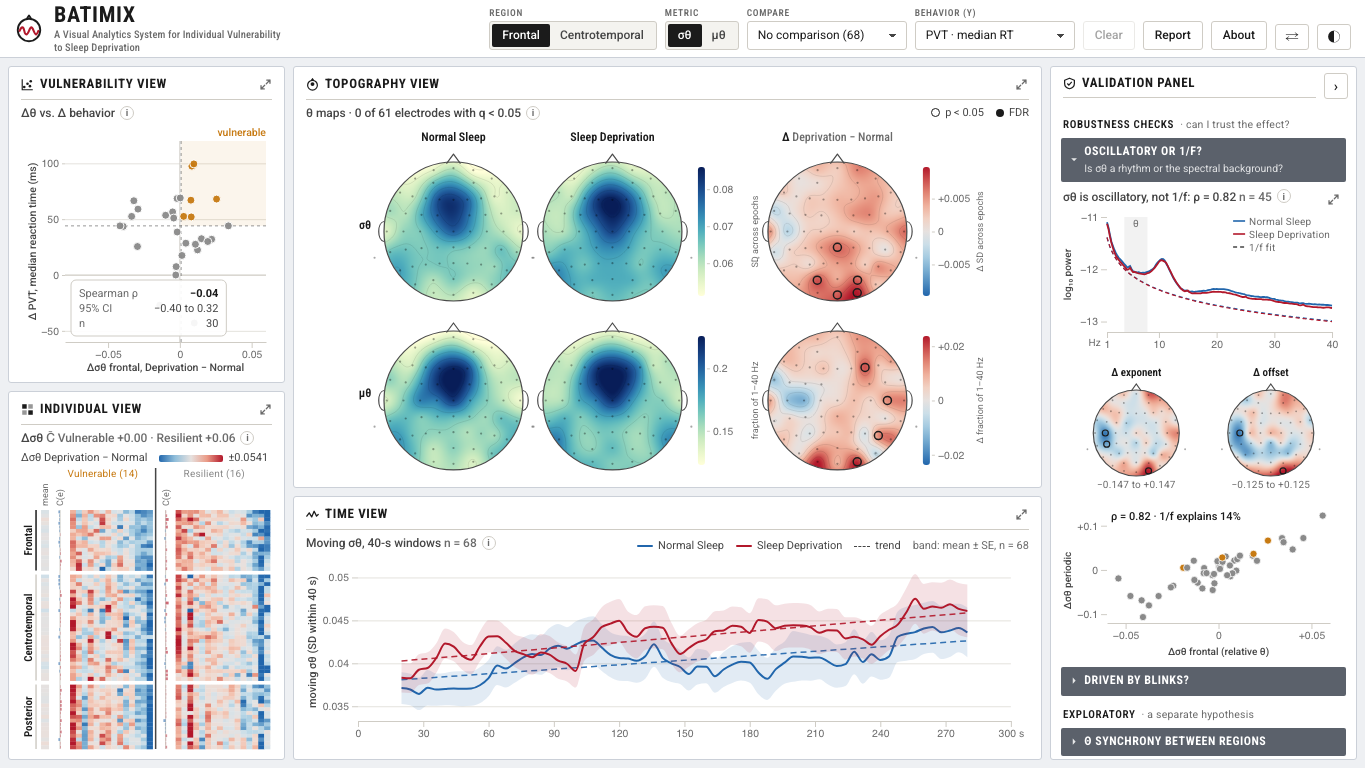
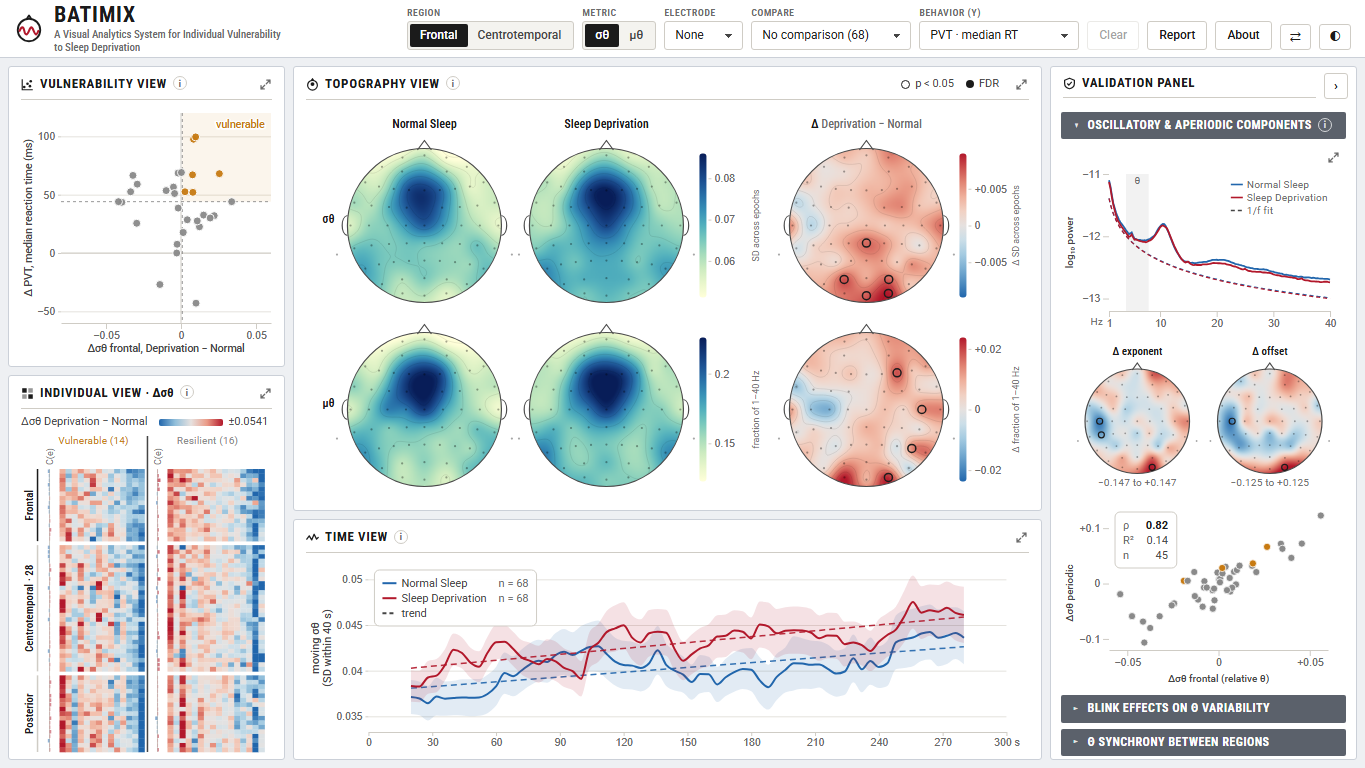
fix report

diff --git a/deliveries/week12/app/index.html b/deliveries/week12/app/index.html
@@ -107,7 +107,7 @@
       <li><b>Heterogeneous:</b> Δσθ frontal rises in 40 people and falls in 28; group t = 1.12, p = 0.27.</li>
       <li><b>Diffuse:</b> 0 of 61 electrodes survive FDR (σθ and μθ).</li>
       <li><b>Not linked to vigilance:</b> Δσθ frontal vs ΔPVT median RT ρ = −0.04 [−0.40, 0.32], n = 30; with Cui's exact pipeline, ρ = −0.06.</li>
-      <li><b>Oscillatory, not 1/f:</b> Δσθ tracks periodic theta (ρ = 0.82); the aperiodic offset change seen without ICA (p = 0.034) disappears with ICA.</li>
+      <li><b>Mostly oscillatory, not 1/f:</b> Δσθ tracks periodic theta (ρ = 0.82; 1/f variability explains R² = 0.14); the aperiodic offset change seen without ICA (p = 0.034) disappears with ICA.</li>
       <li><b>Not blinks:</b> removing blink windows leaves Δσθ unchanged (ρ = 0.95).</li>
     </ul>
     <h3>Data</h3>

diff --git a/deliveries/week12/RefinedDraftReport.md b/deliveries/week12/RefinedDraftReport.md
@@ -2,10 +2,10 @@
 
 **Refined Draft Report, Week 12** · DS5343 Data Visualization, UTEC 2026-2
 **Team:** Jimena Gurbillon, Andrea Coa, Paolo Medrano
-**Date:** 28 October 2026 (updated 2 November 2026)
+**Date:** 28 October 2026 (updated 3 November 2026)
 **Application:** `deliveries/week12/app/` · planned deployment at https://andrea-coa.github.io/data-visualization-project/deliveries/week12/app/ (verify after the push)
 
-![BATIMIX at 1600 × 900: scatter, person × electrode heatmap, five minutes, topomap matrix and secondary views](assets/dashboard-1600x900.png)
+![BATIMIX at 1600 × 900: Vulnerability View (scatter), Individual View (person × electrode heatmap), Topography View (topomap matrix), Time View and Validation Panel](assets/dashboard-1600x900.png)
 
 ## 1. Narrative
 
@@ -15,15 +15,15 @@
 
 **Data.** OpenNeuro ds004902 (Xiang et al., 2024, CC0): 71 people, normal sleep (NS) versus 24–30 h without sleep (SD), 61-channel eyes-open EEG. 68 have EEG in both conditions; of these, PVT 30, KSS 32, SSS 33 and PANAS 65.
 
-**Analytic sequence.** Each panel answers one question and its title is the answer, computed live from the data:
+**Analytic sequence.** Each view answers one question. The answers are computed live from the data; on screen they appear in the view's ⓘ note or in its legend box, and the exported Report keeps them as figure titles (with ρ, CI and n):
 
-| Question | Answer (real data) | Panel |
+| Question | Answer (real data) | View |
 |---|---|---|
-| Does everyone change the same way? | 40 people become more unstable and 28 more stable; the mean rises only +0.0030 (SD across people 0.022) | Scatter and heatmap |
-| Where does it change on the head? | σθ: 5 of 61 electrodes with uncorrected p < 0.05 (CPz, O2, Oz, PO3, PO4); μθ: 4; none after FDR: diffuse, no focus | Topomap matrix, Δ column |
-| When, within the five minutes? | Moving σθ in SD above NS in 60 of 66 windows (frontal) | Five minutes |
-| Is more unstable slower? | ρ = −0.04 [−0.40, 0.32], n = 30: does not replicate Cui et al. | Scatter |
-| Is the effect oscillatory or 1/f? | The change in σθ tracks the change in periodic theta (ρ = 0.82 frontal, 0.89 centrotemporal) | Secondary view «Oscillatory or 1/f?» |
+| Does everyone change the same way? | 40 people become more unstable and 28 more stable; the mean rises only +0.0030 (SD across people 0.022) | Vulnerability and Individual views |
+| Where does it change on the head? | σθ: 5 of 61 electrodes with uncorrected p < 0.05 (CPz, O2, Oz, PO3, PO4); μθ: 4; none after FDR: diffuse, no focus | Topography View, Δ column |
+| When, within the five minutes? | Moving σθ in SD above NS in 60 of 66 windows (frontal) | Time View |
+| Is more unstable slower? | ρ = −0.04 [−0.40, 0.32], n = 30: does not replicate Cui et al. | Vulnerability View (figure in the Report) |
+| Is the effect oscillatory or 1/f? | The change in σθ tracks the change in periodic theta (ρ = 0.82 frontal, 0.89 centrotemporal) | Validation Panel, «Oscillatory & aperiodic components» |
 | Does it depend on how it is analyzed? | Across 896 alternative analyses (two preprocessing pipelines), no joint statistic exceeds chance (p ≥ 0.09) | About, «Robustness» (section 4) |
 
 **Preliminary conclusion.** Without sleep, each person's theta moves in different directions, and that change does not robustly predict who deteriorates. The only consistent hint is with mood (positive affect, PANAS+), not with vigilance (PVT).
@@ -32,30 +32,30 @@
 
 | Before (Week 10) | Now (Week 12) | Why |
 |---|---|---|
-| Light dashboard of three separate cards, with a commented scrolling story | Single view with gapless panels that fill the screen (1365 × 768 without scrolling); light theme by default, dark as an option | Instructor feedback (no white space) and team decision (one view, no scrollytelling) |
+| Light dashboard of three separate cards, with a commented scrolling story | Single view of boxed views with narrow gutters that fill the screen (1365 × 768 without scrolling); light theme by default, dark as an option | Instructor feedback (no white space) and team decision (one view, no scrollytelling) |
 | Controls spread over several bars and inside each card | One header with the title and all controls | Visual noise from controls |
-| Help text ("drag to…", "hover…") and role labels | No instruction text: each panel title is its finding; intro, glossary and method in About | Visual noise; team request |
+| Help text ("drag to…", "hover…") and role labels | No instruction text or subtitles over the charts: each view has a short name with an ⓘ icon next to it (reading, method and figures), and legends sit in boxes inside the charts that can be dragged or collapsed to an icon; intro, glossary and method in About | Visual noise and more room for the charts; team request |
 | Transition animations and a Play button | No animations: every state change is immediate | No motion graphics |
 | Inverse-distance (IDW) maps on hand-approximated 2D coordinates | Biharmonic v4 interpolation, as in EEGLAB `topoplot` and FieldTrip `ft_topoplotER`, on the real positions in `electrodes.tsv` in azimuthal equidistant projection; since 2 November it is the only method in the app (the selector that also showed MNE's Clough-Tocher cubic and the spherical spline, Perrin et al., 1989, was removed). All three implementations reproduce the originals (EEGLAB and FieldTrip in MATLAB R2022a, MNE 1.8) with an error below 1e-9 of the range. With all 68 people, the v4 map correlates r ≥ 0.985 with MNE's cubic and r ≥ 0.93 with the spherical spline in all six maps | IDW is not a standard for EEG topomaps; use the community's reference method and show that the pattern does not depend on it |
-| No indication of pipeline or units; electrode tooltip with p and q | Fixed chip in the header (now θ 4–8 / 1–40 Hz · avg. ref. · ICA · 75 × 4 s, linked to the method); units on the color bars; the five-minute band labeled «mean ± SE»; tooltip with t(67), d_z and 95% CI of Δ. The Δ map of the 68 is now paired and p uses the exact t distribution (formerly a normal approximation); same conclusions | The first questions of a neurophysiologist: which pipeline, which units, what effect size |
+| No indication of pipeline or units; electrode tooltip with p and q | Fixed chip in the header (now θ 4–8 / 1–40 Hz · avg. ref. · ICA · 75 × 4 s, linked to the method); units on the color bars; the Time View legend gives each series' n and its ⓘ note explains the band (± SE); tooltip with t(67), d_z and 95% CI of Δ. The Δ map of the 68 is now paired and p uses the exact t distribution (formerly a normal approximation); same conclusions | The first questions of a neurophysiologist: which pipeline, which units, what effect size |
 | Five minutes always showed the mean (μθ), even with σθ selected | Follows the σθ/μθ button: with σθ it shows moving σθ (SD of regional θ in 40-s windows sliding by one epoch). Exploratory and labeled: its scale is smaller than the scatter σθ because it starts from the region-averaged series | Q6 for the central metric: the state-instability hypothesis (Doran, Van Dongen and Dinges, 2001) predicts more moment-to-moment variability without sleep; Cui et al. (2026) summarize it as a single number without temporal order; 40 s is where resting spectral power reaches its reliability (Gudmundsson et al., 2007) |
-| Two columns with maps and views of the same size; no secondary views | Three columns with the topomap as the main view and a column of collapsible secondary views: «Oscillatory or 1/f?» (specparam) and «θ synchrony between regions» (wPLI graph and effect per pair), computed from the raw EEG with `tools/build_secondary.py` and linked to the selection | Visual hierarchy (instructor critique) and the first objection a neurophysiologist would raise: is it oscillation or 1/f background? |
+| Two columns with maps and views of the same size; no secondary views | Three columns with the topomap as the main view and a collapsible Validation Panel: «Oscillatory & aperiodic components» (specparam: spectrum with a click-to-zoom θ band, Δ exponent and offset maps, Δσθ against periodic Δσθ with ρ, R² and n) and «θ synchrony between regions» (wPLI graph and effect per pair), computed from the raw EEG with `tools/build_secondary.py` and linked to the selection | Visual hierarchy (instructor critique) and the first objection a neurophysiologist would raise: is it oscillation or 1/f background? |
 | No automatic verification of the numbers | `tools/check_app.py`: 16 tests (FDR and ρ against statsmodels and scipy, t and d_z against scipy, reference signals with MNE, consistency of n across titles, About, Report and tooltip, secondary views, screenshots) and `tools/check_reproduction.py` (the processed data reproduce from the raw EEG) | A miscalculated number invalidates the tool for an expert |
 | One topomap with σ/μ and NS/SD/Δ toggles | 2 × 3 topomap matrix: NS, SD and Δ columns; σθ and μθ rows, or one row per person when exactly two people are selected | Compare conditions, metrics and people without toggling (T1, T2, T4) |
-| Selection with the lasso only; fixed ρ for the 68 | Lasso, click selection from 1 to n people, and **Compare two groups** (women vs men, session order, PSQI, vulnerable vs rest), with one color per group in every view and ρ per group | Task T7: moderators side by side, not filtered one at a time |
-| Views that only displayed | All linked: clicking an electrode or a time window redefines the scatter x-axis; clicking points or heatmap columns builds the selection; two selected people are compared side by side | "Everything interactive": each view is also a control |
+| Selection with the lasso only; fixed ρ for the 68 | Lasso, click selection from 1 to n people, and **Compare two groups** (women vs men, session order, PSQI, vulnerable vs rest), with one color per group in every view (ρ per group in the Report). Selection and comparison combine: the points keep their group colors and the Topography and Time views follow the selection | Task T7: moderators side by side, not filtered one at a time |
+| Views that only displayed | All linked: an electrode (from the **Electrode** selector in the header, a map or a heatmap row) or a time window redefines the scatter x-axis; clicking points or heatmap columns builds the selection; two selected people are compared side by side | "Everything interactive": each view is also a control |
 | No per-person view | Fixed person × electrode heatmap: two groups defined by behavior only (deteriorate vs resist, or the Compare groups) and their consistency C(e); selected people are outlined without reordering | Tasks T3 and T4 without averages: do those who deteriorate share a signature? |
 | No way to take the view away | **Report** button: self-contained HTML with the current view, how to read each chart, the people table and its CSV | Let the researcher document and share what they found |
-| Long titles | Short headline computed from the data plus figures in a muted tone | Each panel conveys its message in a few words |
+| Long titles | Short view names (the Individual View adds the metric, e.g. «Δσθ»); no headlines over the charts: figures go in the ⓘ notes, the legend boxes and the Report | Each view conveys its message in a few words and the charts get the space |
 | Markers: median PVT, KSS, SSS, PANAS | Also PVT lapses and RT SD | Basner and Dinges (2011) |
 | No response to the non-replication | Multiverse (448 analyses, now 896 with the preprocessing pipeline as a dimension) with permutation inference. It had its own panel in the 28 October delivery; later, to reduce the number of charts, it moved to About and the Report as a robustness analysis | Methodological contribution (section 4) |
-| No per-person data quality; no artifact check | Tooltip with each person's EEG quality (epochs used, interpolated channels, blinks per minute) and a secondary «Driven by blinks?» view (`tools/build_quality.py`) | Without EOG or ICA, the first suspicion about frontal theta is blinks |
+| No per-person data quality; no artifact check | Tooltip with each person's EEG quality (epochs used, interpolated channels, blinks per minute) and a secondary «Blink effects on θ variability» view (`tools/build_quality.py`) | There is no EOG channel and ICA removes ocular components by rule, so the first suspicion about frontal theta is residual blinks |
 | Preprocessing without ICA, FCz reference (the first question of a reviewer; every recent multi-channel sleep-deprivation study uses ICA) | Main pipeline with average reference and ICA (`tools/eeg_ica.py`); all app data regenerated; the Week 6 pipeline kept as a multiverse dimension; Cui-style rerun (`tools/build_cui_variant.py`) | Snipes et al. (2022), Lian et al. (2023), Ma et al. (2023), Liu, Xie and Ma (2024), Cui et al. (2026); see References |
 | Spanish interface | English interface | The tool and its figures will be part of an English paper |
 
 ## 3. Design rationale
 
-**Layout.** Three columns, following the team's sketch and the most common pattern in IEEE VIS systems (Chen et al.: large views in the center, narrow side panels). Since 2 November each view is a box with a short uppercase name and an icon (Vulnerability, Individual, Topography and Time views; Validation Panel), the finding moves to a discreet subtitle, controls carry a label above them, the header has the system name, a one-line description and a dataset summary, and conditions are written out as Normal Sleep and Sleep Deprivation, following VISTA and Unlearning Comparator. Center: the topomap matrix, the main view, with the five-minute series below, wide enough for its 75 epochs. Left: the people, with a compact scatter and a tall heatmap. Right: secondary views in an accordion (one open at a time) that collapse to a strip to give the maps more room. The ⇄ button swaps the sides; the center does not move. On narrow screens the panels stack, maps first.
+**Layout.** Three columns, following the team's sketch and the most common pattern in IEEE VIS systems (Chen et al.: large views in the center, narrow side panels). Since 2 November each view is a box with a short uppercase name and an icon (Vulnerability, Individual, Topography and Time views; Validation Panel), with an ⓘ icon next to the name for the reading and the figures and no subtitle over the chart; controls carry a label above them (Region, Metric, Electrode, Compare, Behavior), the header has the system name, a one-line description and a dataset summary, and conditions are written out as Normal Sleep and Sleep Deprivation, following VISTA and Unlearning Comparator. Center: the topomap matrix, the main view, with the five-minute series below, wide enough for its 75 epochs. Left: the people, with a compact scatter and a tall heatmap. Right: secondary views in an accordion (one open at a time) that collapse to a strip to give the maps more room. The ⇄ button swaps the sides; the center does not move. On narrow screens the panels stack, maps first.
 
 **Tasks and views** (typology of Brehmer and Munzner, 2013):
 
@@ -63,18 +63,18 @@
 |---|---|---|---|
 | T1 Locate | Where does theta change? (Q1) | Matrix, Δ column | Interpolated map (EEGLAB/FieldTrip v4) with ring (p < 0.05) and fill (FDR) |
 | T2 Compare metrics | Variability or mean? (Q2) | Matrix, σθ and μθ rows | Both metrics in view, one above the other |
-| T3 Identify | Who is vulnerable? (Q3) | Scatter; heatmap | Amber quadrant (above both medians), lasso and click selection; one column per person |
+| T3 Identify | Who is vulnerable? (Q3) | Scatter; heatmap | Amber quadrant labeled «vulnerable» (above both medians), lasso and click selection; one column per person |
 | T4 Compare | Do they share a spatial signature? (Q4) | Matrix by group; two selected people; heatmap | Mean of the active group; two people with shared scales; C(e) per group |
-| T5 Correlate | Does it converge with each marker? (Q5) | Scatter, Y-axis | Spearman ρ with 95% CI and n in the title, recomputed per group |
-| T6 Describe trend | Does it change within the recording? (Q6) | Five minutes | With μθ, mean ± SE per epoch; with σθ, moving σθ in 40-s windows |
-| T7 Compare groups | Do sex, PSQI or session order matter? (Q7) | Compare selector | Two groups with two colors in every view: map rows, ρ per group, Δ per epoch |
+| T5 Correlate | Does it converge with each marker? (Q5) | Scatter, Y-axis | The point cloud against the marker medians; Spearman ρ with 95% CI and n, recomputed for the selection or per group, in the Report figure |
+| T6 Describe trend | Does it change within the recording? (Q6) | Time View | With μθ, mean ± SE per epoch; with σθ, moving σθ in 40-s windows; n per series in the legend |
+| T7 Compare groups | Do sex, PSQI or session order matter? (Q7) | Compare selector | Two groups with two colors in every view: map rows, heatmap blocks, Δ per epoch with each group's n; ρ per group in the Report |
 | T8 Check robustness | Does it depend on analytic decisions? Is it oscillatory? | About, «Robustness»; secondary views | Joint multiverse statistics with their permutation p; periodic vs aperiodic separation; θ synchrony with effects and CIs per pair |
 
-**Encoding and color.** Light theme by default with ColorBrewer palettes; an optional dark "instrument" theme. When the two map rows share a scale (two people or two groups), each color column has a single long bar instead of one per row. NS = blue, SD = red. NS and SD share a sequential scale per row so that comparing columns means comparing values; with two people both rows share the scale. Δ uses a diverging scale with a neutral zero. Amber marks the vulnerable quadrant. Selection is marked with a ring (scatter) or an outline (heatmap) without changing the point colors, which keep their meaning. Direct labels instead of distant legends.
+**Encoding and color.** Light theme by default with ColorBrewer palettes; an optional dark "instrument" theme. When the two map rows share a scale (two people or two groups), each color column has a single long bar instead of one per row. NS = blue, SD = red. NS and SD share a sequential scale per row so that comparing columns means comparing values; with two people both rows share the scale. Δ uses a diverging scale with a neutral zero. Amber marks the vulnerable quadrant. Selection is marked with a ring (scatter) or an outline (heatmap) without changing the point colors, which keep their meaning. Direct labels («vulnerable» inside its quadrant, row and column names) and legends inside the charts, in boxes placed in the least crowded corner, instead of distant legends.
 
-**Typography.** Geist for titles and text, Geist Mono for figures and axes. At least 9–10 px in charts.
+**Typography.** Roboto for text and figures (tabular digits) and Roboto Condensed for view names, column headers and control labels. At least 9–10 px in charts; only dense heatmap labels go smaller (minimum 7 px).
 
-**Interaction.** Lasso, click to add or remove people (1 to n), Shift + click for people A and B, Esc and Clear, group selector, global region and metric; the ⤢ button of each view opens it almost full screen (Esc restores it); choosing an electrode (a map or a heatmap row) also switches the time view from the region to that electrode's own series, with its larger scale, so a local effect can be checked over the five minutes. Immediate response, no decorative animation, visible focus states.
+**Interaction.** Lasso, click to add or remove people (1 to n), Shift + click for people A and B, Esc and Clear, group selector (combinable with a selection), global region, metric and electrode; the ⤢ button of each view opens it almost full screen (Esc restores it); the ⇄ button swaps the side columns; legend boxes can be dragged (or moved with the arrow keys) and collapsed to an icon with a click; a click on the θ band of the spectrum zooms it to 4–8 Hz and another restores 1–40 Hz. Choosing an electrode (Electrode selector, a map or a heatmap row) also switches the Time View from the region to that electrode's own series, with its larger scale, so a local effect can be checked over the five minutes. Immediate response, no decorative animation, visible focus states.
 
 **Accessibility.** AA contrast, visible focus, group selector as an alternative to the lasso, data table in About.
 
@@ -100,8 +100,8 @@ Of the 58 significant analyses, 48 are PANAS+ (22 with ICA, 26 without): the lar
 3. The theta elevation in SD is mild and sustained across the five minutes.
 4. Theta instability does not predict PVT slowing (ρ = −0.04, n = 30), nor lapses (ρ = 0.07).
 5. The result does not depend on an analytic decision: across the whole multiverse no joint statistic exceeds chance.
-6. Person by person there is no vulnerability signature either (figures from the Week 6 pipeline): with the PVT, those who deteriorate and those who resist have mean consistency C = −0.02 and +0.10, and in a similarity graph (analyzed in the delivery, now off the board) 19 of 42 neighbors of those who deteriorate belong to their group (chance ≈ 19). The exception is again mood: those who lose positive affect increase theta more (C = +0.28 versus −0.01 in σθ; +0.35 versus −0.07 in μθ), although their patterns are not more similar to each other.
-7. **σθ is oscillatory, not an effect of the 1/f background.** Each person's change in σθ tracks the change in their periodic theta (ρ = 0.82 frontal, 0.89 centrotemporal). Without ICA, deprivation seemed to raise the aperiodic offset (d_z = +0.26, p = 0.034; as Bai et al., 2024, report on this dataset); after ICA it does not (offset d_z = +0.01, p = 0.97; exponent d_z = +0.04, p = 0.73), which suggests that part of that change was ocular or muscle artifact. 53% of electrodes show a theta peak, as Monchy et al. ask to verify before interpreting theta.
+6. Person by person there is no vulnerability signature either (figures from the Week 6 pipeline): with the PVT, those who deteriorate and those who resist have mean consistency C = −0.02 and +0.10 (+0.00 and +0.06 with the main pipeline, as the heatmap shows now), and in a similarity graph (analyzed in the delivery, now off the board) 19 of 42 neighbors of those who deteriorate belong to their group (chance ≈ 19). The exception is again mood: those who lose positive affect increase theta more (C = +0.28 versus −0.01 in σθ; +0.35 versus −0.07 in μθ), although their patterns are not more similar to each other.
+7. **σθ is mostly oscillatory, not an effect of the 1/f background.** Each person's change in σθ tracks the change in their periodic theta (ρ = 0.82 frontal, n = 45; 0.89 centrotemporal, n = 51: people with at least 50 well-fitted epochs per session). The change in the epoch-to-epoch variability of the aperiodic exponent explains only R² = 0.14 (frontal) and 0.22 (centrotemporal) of the variance of Δσθ. Without ICA, deprivation seemed to raise the aperiodic offset (d_z = +0.26, p = 0.034; as Bai et al., 2024, report on this dataset); after ICA it does not (offset d_z = +0.01, p = 0.97; exponent d_z = +0.04, p = 0.73), which suggests that part of that change was ocular or muscle artifact. 46% of electrodes show a theta peak (normal sleep), as Monchy et al. ask to verify before interpreting theta.
 8. **Blinks do not drive σθ.** ICA removes the ocular components; this check asks whether what is left still matters. Blinks detected on Fp1/Fp2 of the raw EEG do not change with deprivation (median 19.6 → 19.9 per minute, p = 0.60). Removing the 1-s windows within 0.25 s of a blink leaves each person's Δσθ almost unchanged (ρ = 0.95 frontal, 0.96 centrotemporal, n = 48), and within recordings epochs with more blinks do not have more theta (r = −0.05). People whose blink rate rose more do show a larger Δσθ (ρ = 0.34, p = 0.005); since removing the blinks does not change Δσθ, this is more likely a shared cause (drowsiness raises both) than contamination.
 9. **Theta synchrony between regions (exploratory).** With average reference and wPLI², it decreases in 44 of 45 region pairs after deprivation, but no pair survives FDR (sign-flip permutation joint test p = 0.14) and it is unrelated to the PVT.
 10. **Average reference and ICA (main pipeline since November 2026) do not change the conclusions.** ICA removes 5.1 components per recording (2.5 ocular, 2.6 muscle) and 71 of 75 epochs are kept. The frontal group increase in σθ is t = 1.12 (p = 0.27; Week 6 pipeline 1.54, p = 0.13), each person's Δσθ agrees with the Week 6 value (ρ = 0.64 frontal, 0.87 centrotemporal), and the link with ΔPVT stays null. Copying Cui et al. exactly (1–30 Hz, 4–30 Hz denominator) raises the frontal group effect (t = 2.32, p = 0.023), mostly through the denominator, but not the link with the PVT (section 4).

diff --git a/deliveries/week12/README.md b/deliveries/week12/README.md
@@ -1,6 +1,6 @@
 # BATIMIX: One sleepless night does not affect everyone the same way (Week 12)
 
-Refined draft and peer-critique response. A linked D3.js explorer, **in a single view with a single header**, of individual vulnerability to sleep deprivation in resting-state EEG (OpenNeuro ds004902, 68 people with paired EEG). Three columns of boxed views, each with a short uppercase name and icon, in the style of IEEE VIS/TVCG visual analytics systems (VISTA, Unlearning Comparator): in the center, the Topography View (2 × 3 topomap matrix, the main view) with the Time View below (moving σθ or μθ per epoch); on the left, the people (Vulnerability View: scatter; Individual View: person × electrode heatmap); on the right, the collapsible Validation Panel, grouped by purpose: two robustness checks, «Oscillatory or 1/f?» (specparam) and «Driven by blinks?», and one exploratory view, «θ synchrony between regions» (wPLI). Hovering any person shows their EEG quality (epochs used, interpolated channels, blinks). Preprocessing: average reference and ICA (`tools/eeg_ica.py`), as in the sleep-deprivation EEG literature. The 896-analysis multiverse (with the preprocessing pipeline as a dimension) is kept as a robustness analysis in About, in the Report and in `RefinedDraftReport.md` (section 4).
+Refined draft and peer-critique response. A linked D3.js explorer, **in a single view with a single header**, of individual vulnerability to sleep deprivation in resting-state EEG (OpenNeuro ds004902, 68 people with paired EEG). Three columns of boxed views, each with a short uppercase name and icon, in the style of IEEE VIS/TVCG visual analytics systems (VISTA, Unlearning Comparator): in the center, the Topography View (2 × 3 topomap matrix, the main view) with the Time View below (moving σθ or μθ per epoch); on the left, the people (Vulnerability View: scatter; Individual View: person × electrode heatmap); on the right, the collapsible Validation Panel with two robustness checks, «Oscillatory & aperiodic components» (specparam) and «Blink effects on θ variability», and one exploratory view, «θ synchrony between regions» (wPLI). No subtitles or instruction text sit over the charts: each view has an ⓘ icon next to its name with the reading and the figures, and legends live in boxes inside the charts that can be dragged or collapsed. Hovering any person shows their EEG quality (epochs used, interpolated channels, blinks). Preprocessing: average reference and ICA (`tools/eeg_ica.py`), as in the sleep-deprivation EEG literature. The 896-analysis multiverse (with the preprocessing pipeline as a dimension) is kept as a robustness analysis in About, in the Report and in `RefinedDraftReport.md` (section 4).
 
 - **Application:** [`app/index.html`](app/index.html), with a light theme (classic, default) or a dark theme (instrument) from the ◐ button in the header; direct links with `?theme=light` or `?theme=dark`
 - **Deployment (GitHub Pages):** https://andrea-coa.github.io/data-visualization-project/deliveries/week12/app/ (verify after the push; see "Deployment")
@@ -24,14 +24,14 @@ deliveries/week12/
   app/                           code of the refined application
     index.html                   single view: header with controls, three columns and the About panel
     css/styles.css               light and dark themes (color and type tokens; dark is the base, light uses data-theme="light"), boxed views with gutters, Roboto and Roboto Condensed
-    js/core.js                   data, state, event bus, groups, selection, statistics
+    js/core.js                   data, state, event bus, groups, selection, statistics, electrode regions, floating legend boxes
     js/topomap.js                2 × 3 topomap matrix (EEGLAB/FieldTrip v4 interpolation; contours, p and FDR, σθ/μθ rows or two people)
-    js/scatter.js                vulnerability scatter, lasso, click selection, A and B, data table
-    js/dynamics.js               five minutes: with μθ, mean ± SE per epoch; with σθ, moving σθ in 40-s windows
-    js/individuals.js            person × electrode heatmap with two behavior-defined groups and their consistency C(e)
-    js/secondary.js              secondary views: oscillatory or aperiodic (spectrum, Δ exponent and offset, Δσθ periodic) and θ synchrony (wPLI graph and effect per pair) and eye-blink check
+    js/scatter.js                Vulnerability View: scatter, «vulnerable» quadrant, lasso, click selection, A and B, legend box, data table
+    js/dynamics.js               Time View: with μθ, mean ± SE per epoch; with σθ, moving σθ in 40-s windows; legend box with each series' n
+    js/individuals.js            Individual View: person × electrode heatmap with two behavior-defined groups and their consistency C(e)
+    js/secondary.js              Validation Panel: oscillatory & aperiodic components (spectrum with click-to-zoom θ band, Δ exponent and offset, Δσθ periodic with ρ, R² and n), blink check and θ synchrony (wPLI graph and effect per pair)
     js/report.js                 downloadable report (self-contained HTML with the view, how to read each chart, and CSV)
-    js/main.js                   data loading, controls and start-up
+    js/main.js                   data loading, controls (including the Electrode selector) and start-up
     data/*.json                  final processed data (and data.js to open the page by double-click)
     tools/eeg_ica.py             shared EEG cleaning: notebook 02 + average reference + ICA (ocular and muscle) + 200 µV rejection
     tools/build_eeg_ica.py       main pipeline: generates ../data/processed_ica/*.csv from the raw EEG (same columns as Week 6)
@@ -140,12 +140,12 @@ All paths are relative. The data are CC0.
 
 ## What changed since Week 10
 
-A single view with no scrolling or animations; one header with all controls; panels with no gaps and no instruction text (each panel title is its finding); three columns with the topomap matrix as the main view and collapsible secondary views (aperiodic and θ synchrony, computed from the raw EEG); σθ/μθ rows or two selected people side by side; group selector (T7); PVT lapses and RT SD; moving σθ in the five-minute view; t, d_z and 95% CI per electrode; multiverse with permutation inference (robustness analysis, without its own panel since 28 October); English interface. Intro, glossary, method and credits in About. Details in `RefinedDraftReport.md` and `PeerCritiqueResponse.pdf`.
+A single view with no scrolling or animations; one header with all controls, including an Electrode selector; boxed views with narrow gutters and no instruction text or subtitles over the charts (an ⓘ icon next to each view name holds the reading and the figures; legends sit in movable, collapsible boxes inside the charts); three columns with the topomap matrix as the main view and a collapsible Validation Panel (oscillatory & aperiodic components, blink check and θ synchrony, computed from the raw EEG); σθ/μθ rows or two selected people side by side; group selector (T7), combinable with a selection; PVT lapses and RT SD; moving σθ in the five-minute view; t, d_z and 95% CI per electrode; multiverse with permutation inference (robustness analysis, without its own panel since 28 October); English interface. Intro, glossary, method and credits in About. Details in `RefinedDraftReport.md` and `PeerCritiqueResponse.pdf`.
 
 ## Dependencies
 
 - D3.js 7.8.5 from cdnjs (ISC license).
-- Google Fonts: Geist and Geist Mono (OFL).
+- Google Fonts: Roboto and Roboto Condensed (OFL).
 - To regenerate the data and run the tests: Python 3 with the packages in `requirements.txt` (numpy, scipy, statsmodels, pandas, mne, mne-connectivity, fooof, pymatreader) and Google Chrome for `check_app.py`. Node.js is optional (`build-data.js`).
 
 ## Data, credits and use of AI
